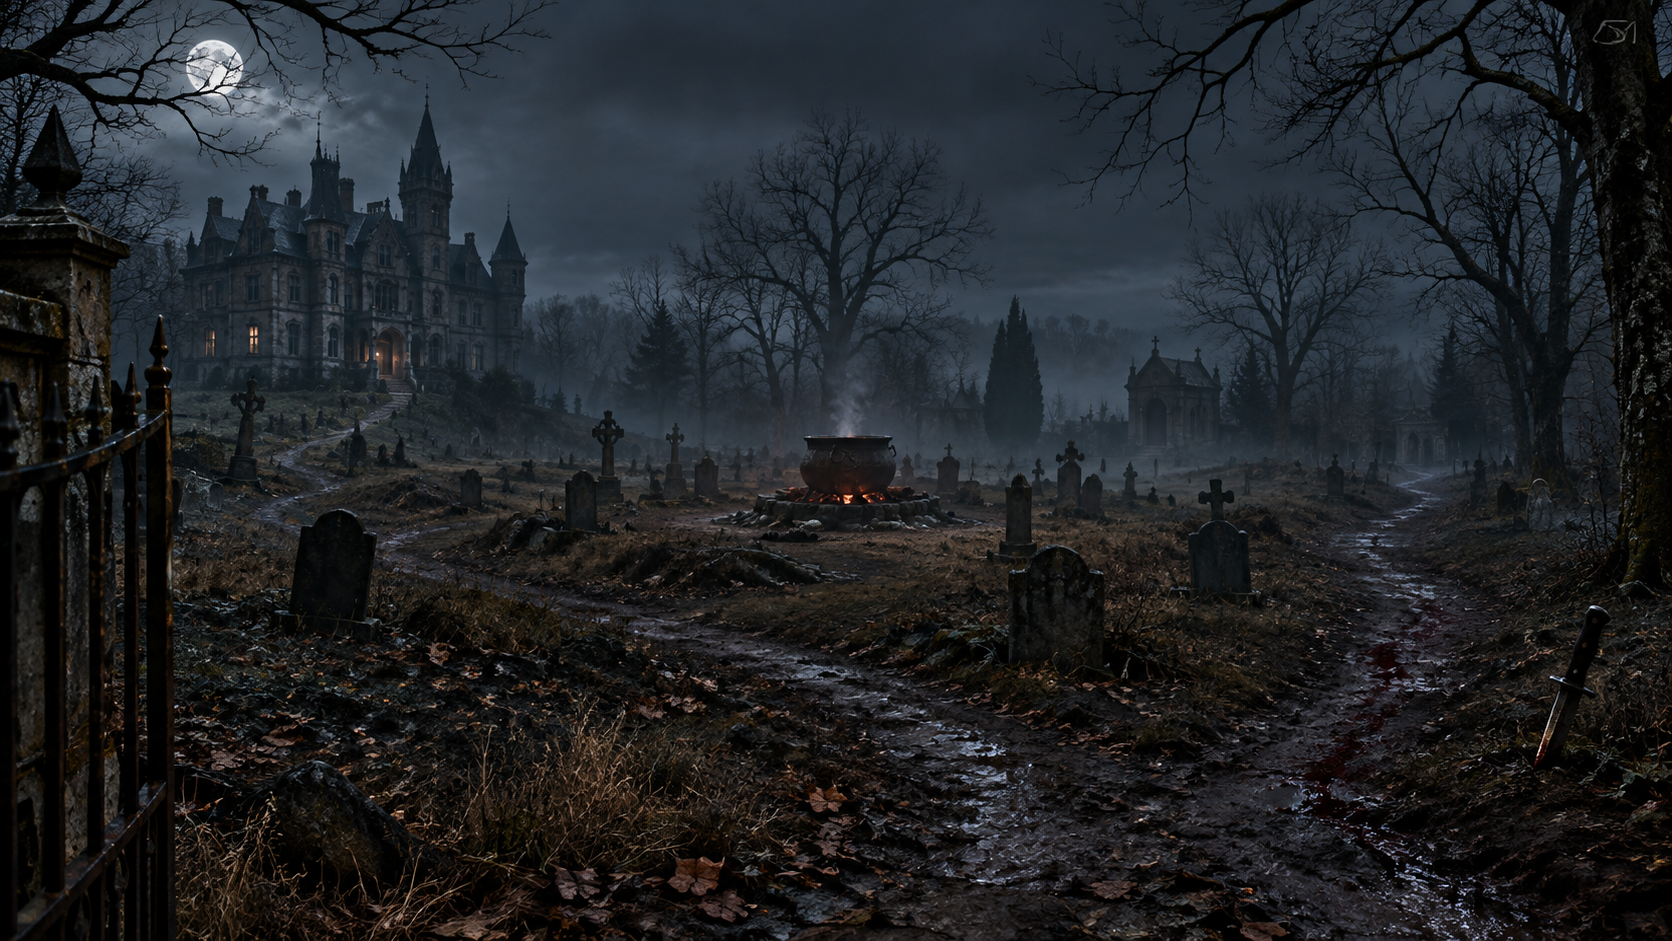
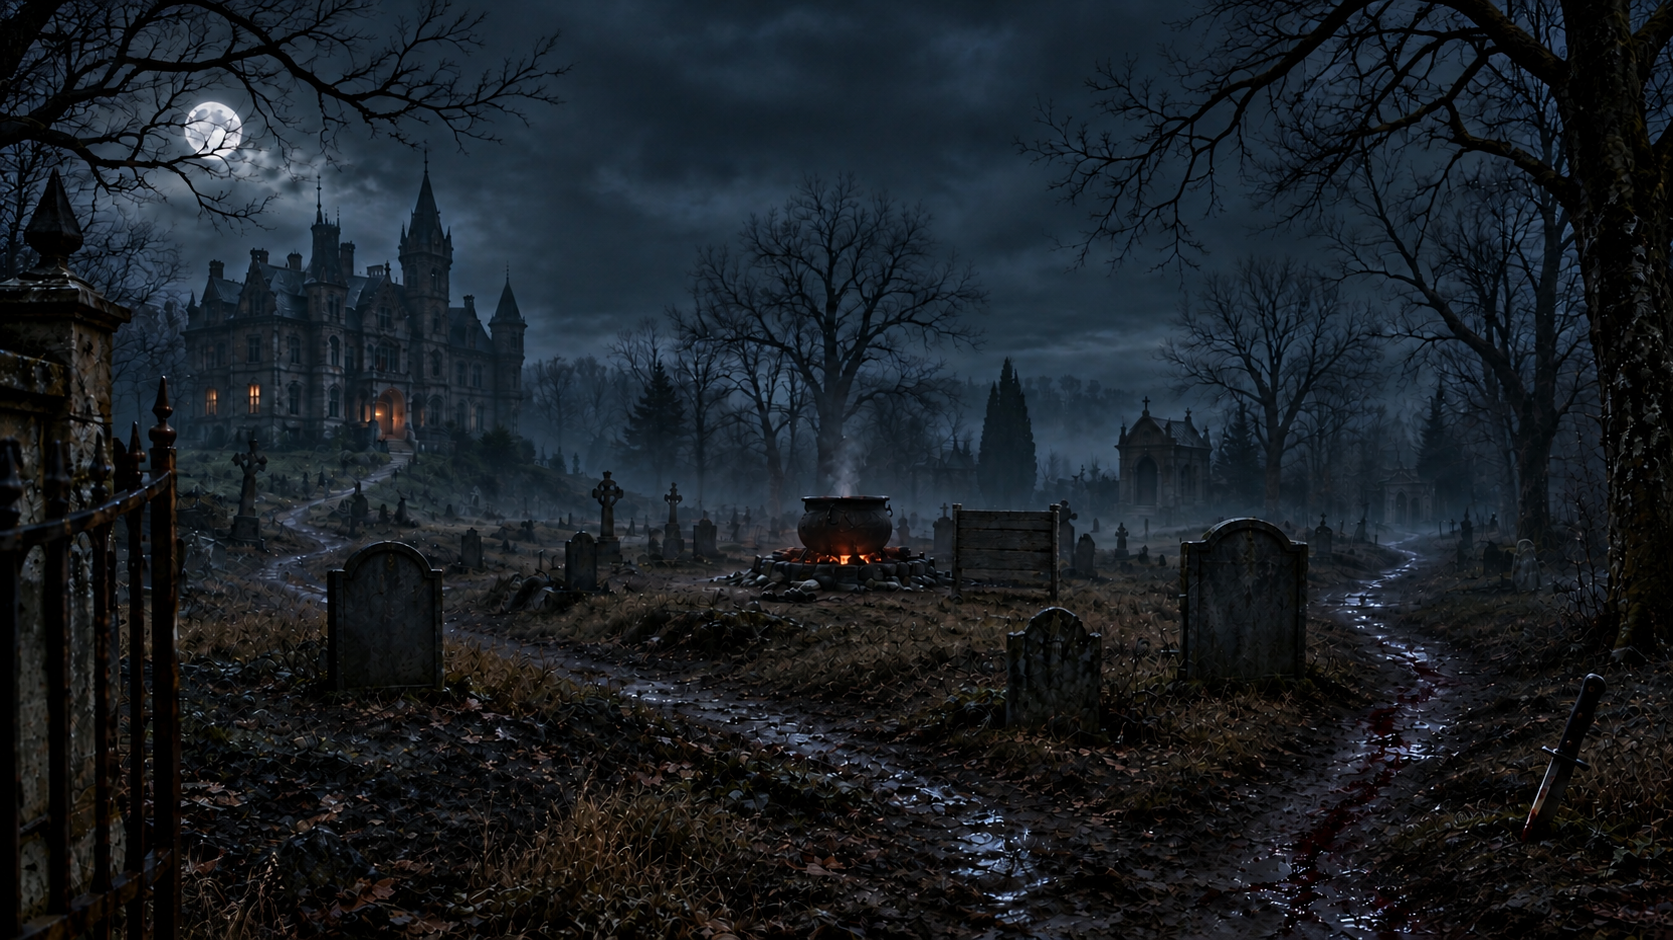
Montar escenario panoramico de la pagina principal en escritorio

diff --git a/public/assets/css/principal.css b/public/assets/css/principal.css
@@ -9,23 +9,41 @@
     box-sizing: border-box;
 }
 
+/* La página ocupa exactamente la ventana, sin scroll */
 body {
     margin: 0;
-    min-height: 100vh;
+    height: 100vh;
+    height: 100dvh;
+    overflow: hidden;
+    position: relative;
     background: #090a09;
     color: var(--marfil);
     font-family: Georgia, "Times New Roman", serif;
 }
 
-/* Cabecera: el título permanece centrado aunque falte el logo. */
+/* Cabecera y pie: superpuestos sobre la escena */
+.cabecera,
+.pie {
+    position: absolute;
+    left: 0;
+    right: 0;
+    z-index: 10;
+    padding: 18px 4%;
+}
+
 .cabecera {
+    top: 0;
     display: grid;
     grid-template-columns: 1fr auto 1fr;
     align-items: center;
     gap: 24px;
-    padding: 20px 4%;
-    background: var(--negro);
-    border-bottom: 1px solid #41604270;
+    padding-bottom: 38px;
+    background: linear-gradient(
+        to bottom,
+        rgba(10, 10, 10, .92) 0%,
+        rgba(10, 10, 10, .6) 55%,
+        transparent 100%
+    );
 }
 
 .cabecera h1 {
@@ -53,14 +71,41 @@ body {
     font-size: .7rem;
 }
 
-/* Una imagen completa: sin recorte, tarjetas ni divisiones. */
-.principal {
-    width: 100%;
+.pie {
+    bottom: 0;
+    display: flex;
+    justify-content: space-between;
+    align-items: center;
+    gap: 24px;
+    padding-top: 38px;
+    font-size: .9rem;
+    background: linear-gradient(
+        to top,
+        rgba(10, 10, 10, .92) 0%,
+        rgba(10, 10, 10, .6) 55%,
+        transparent 100%
+    );
 }
 
+.atlantida {
+    letter-spacing: .12em;
+    text-transform: uppercase;
+}
+
+/* La escena ocupa toda la ventana y queda centrada */
+.principal {
+    position: absolute;
+    inset: 0;
+    display: grid;
+    place-items: center;
+}
+
+/* La imagen entra completa: el ancho es el menor entre el de la
+   ventana y el que corresponde a la altura disponible */
 .escenario {
     position: relative;
-    width: 100%;
+    width: min(100vw, calc(100dvh * 1673 / 940));
+    aspect-ratio: 1673 / 940;
     container-type: inline-size;
     isolation: isolate;
 }
@@ -71,20 +116,12 @@ body {
     height: auto;
 }
 
-/* Oscurecimiento leve solo en los extremos verticales. */
-.escenario::after {
-    content: "";
-    position: absolute;
-    inset: 0;
-    z-index: 1;
-    pointer-events: none;
-    background: linear-gradient(
-        to bottom,
-        #090a0930,
-        transparent 16%,
-        transparent 82%,
-        #090a0960
-    );
+/* Si la ventana es más ancha que la imagen, se difuminan los bordes */
+@media (min-aspect-ratio: 1673 / 940) {
+    .escenario-imagen {
+        -webkit-mask-image: linear-gradient(to right, transparent, #000 4%, #000 96%, transparent);
+                mask-image: linear-gradient(to right, transparent, #000 4%, #000 96%, transparent);
+    }
 }
 
 /*
@@ -105,6 +142,7 @@ body {
     justify-content: center;
     text-align: center;
     text-decoration: none;
+    color: var(--marfil);
 }
 
 .acceso-cluedo {
@@ -139,9 +177,10 @@ body {
     text-wrap: balance;
 }
 
-/* Piedra: texto claro y apagado, con sombra que sugiere grabado */
+/* Texto claro y apagado, con sombra que sugiere grabado */
 .acceso-cluedo h2,
-.acceso-ranking h2 {
+.acceso-ranking h2,
+.acceso-recetario h2 {
     color: #ddd4bf;
     letter-spacing: .02em;
     text-shadow:
@@ -150,16 +189,9 @@ body {
         0 0 4px rgba(0, 0, 0, .5);
 }
 
-/* Madera: mismo texto claro que las lápidas, con sombra para el grabado */
 .acceso-recetario h2 {
     display: grid;
     gap: 1px;
-    color: #ddd4bf;
-    letter-spacing: .02em;
-    text-shadow:
-        0 -1px 0 rgba(0, 0, 0, .9),
-        0 1px 1px rgba(0, 0, 0, .8),
-        0 0 4px rgba(0, 0, 0, .5);
 }
 
 .etiqueta-codigo {
@@ -208,20 +240,4 @@ a.acceso:focus-visible {
     outline: 2px solid var(--amarillo);
     outline-offset: 6px;
     border-radius: 2px;
-}
-
-.pie {
-    display: flex;
-    justify-content: space-between;
-    align-items: center;
-    gap: 24px;
-    padding: 20px 4%;
-    background: var(--negro);
-    border-top: 1px solid #41604270;
-    font-size: .9rem;
-}
-
-.atlantida {
-    letter-spacing: .12em;
-    text-transform: uppercase;
 }

diff --git a/public/principal.php b/public/principal.php
@@ -24,7 +24,7 @@
         <section class="escenario" aria-label="Explora el cementerio">
             <img
                 class="escenario-imagen"
-                src="assets/img/fondos/cementerio-principal-v3.png"
+                src="assets/img/fondos/cementerio-principal.png"
                 alt=""
                 width="1673"
                 height="940"
